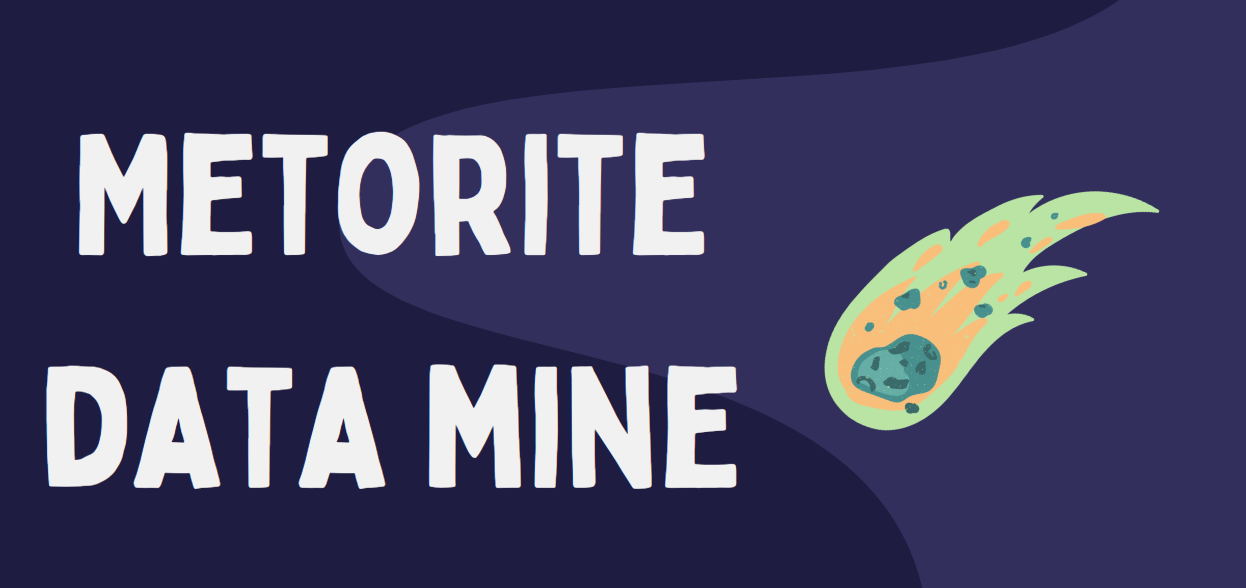
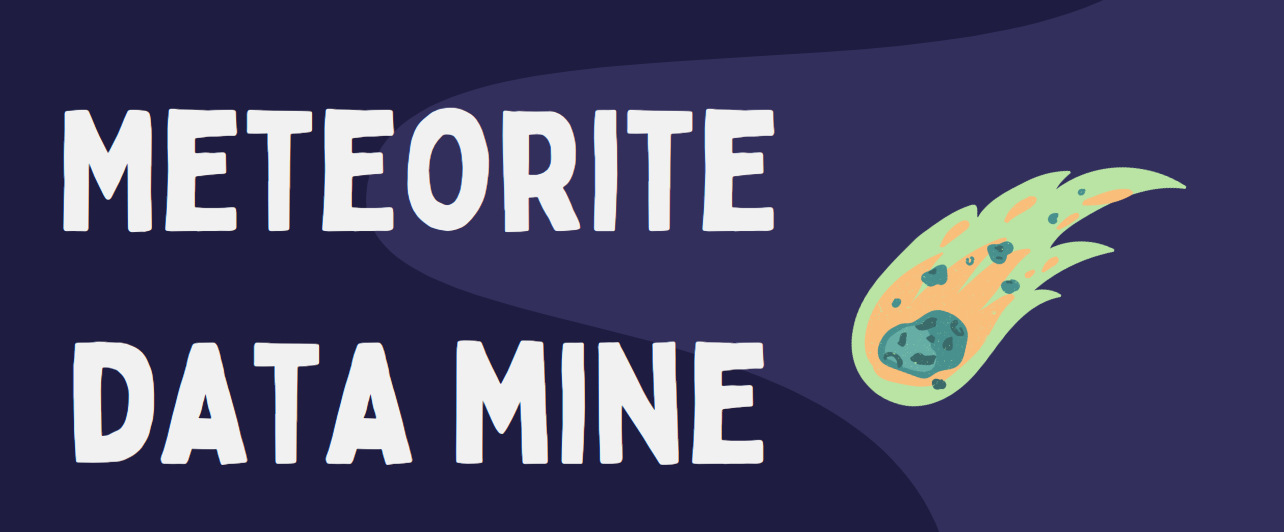
Fixed mispell from init

diff --git a/README.md b/README.md
@@ -12,11 +12,11 @@
 
 1.  Clone the repository to a machine which has a local display (Does not work on a remote server headlessesly)
 ```bash
-git clone https://github.com/JiveyGuy/Metorite_Data_Mine.git
+git clone https://github.com/JiveyGuy/Meteorite_Data_Mine.git
 ```
 2. cd into the directory
 ```bash
-cd Metorite_Data_Mine
+cd Meteorite_Data_Mine
 ```
 3. Setup a python virtual env
 ```bash
